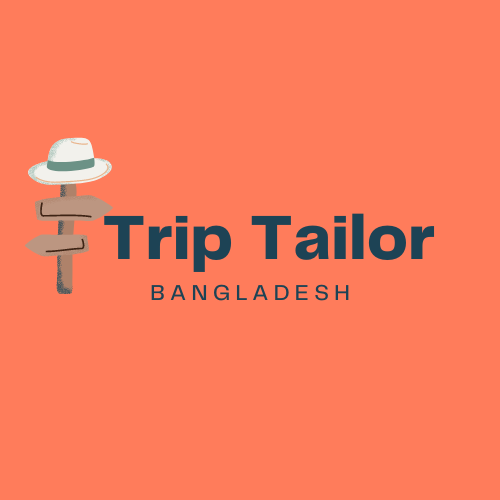
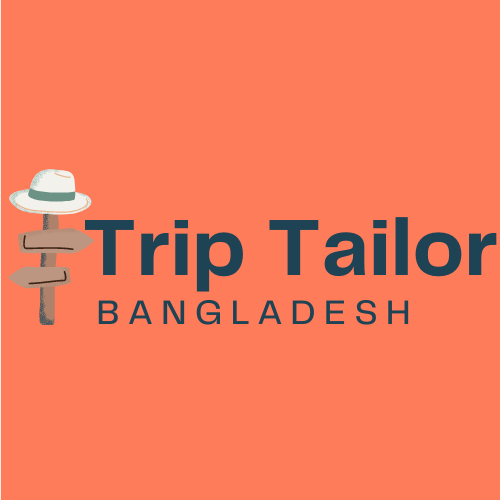
created navbar

Changed region(s): [[0.0, 0.27, 1.0, 0.66]]

diff --git a/src/components/Shared/Navabar/Navbar.jsx b/src/components/Shared/Navabar/Navbar.jsx
@@ -1,0 +1,82 @@
+import { Link, NavLink } from "react-router-dom";
+import logo from "../../../assets/images/Trip Tailor.png";
+
+const Navbar = () => {
+
+    const user = ''
+
+    const navlinks = <>
+        <li><NavLink to='/'>Home</NavLink></li>
+        <li><NavLink to='/community'>Community</NavLink></li>
+        <li><NavLink to='/blogs'>Blogs</NavLink></li>
+        <li><NavLink to='/about'>About Us</NavLink></li>
+        <li><NavLink to='/contact'>Contact Us</NavLink></li>
+    </>
+
+    return (
+        <div>
+            <div id="navbar" className="navbar bg-ttPrimary text-white">
+                {/* navbar start */}
+                <div className="navbar-start">
+                    {/* menu icon for small screen */}
+                    <div className="dropdown">
+                        <div tabIndex={0} role="button" className="btn btn-ghost lg:hidden">
+                            <svg xmlns="http://www.w3.org/2000/svg" className="h-5 w-5" fill="none" viewBox="0 0 24 24" stroke="currentColor"><path strokeLinecap="round" strokeLinejoin="round" strokeWidth="2" d="M4 6h16M4 12h8m-8 6h16" /></svg>
+                        </div>
+                        <ul tabIndex={0} className="menu menu-sm dropdown-content mt-3 z-[1] p-2 shadow bg-ttPrimary rounded-box w-52">
+                            {navlinks}
+                        </ul>
+                    </div>
+
+
+                    {/* profile and login/register button */}
+                    {
+                        user ? <div className="dropdown">
+                            <div tabIndex={0} role="button" className="btn btn-ghost btn-circle avatar">
+                                <div className="w-10 rounded-full">
+                                    <img alt="Tailwind CSS Navbar component" src="https://img.daisyui.com/images/stock/photo-1534528741775-53994a69daeb.jpg" />
+                                </div>
+                            </div>
+                            <ul tabIndex={0} className="mt-3 z-[1] p-2 shadow menu menu-sm dropdown-content bg-ttPrimary rounded-box w-52 text-center space-y-1">
+                                <li>Name</li>
+                                <li>Email</li>
+                                <li><NavLink to='/das'>Dashboard</NavLink></li>
+                                <li><NavLink>Offer</NavLink></li>
+                            </ul>
+                        </div>
+                            :
+                            <div className="flex gap-2">
+                                <Link to='/login'>
+                                    <button className="btn bg-ttSecondary text-white border-ttSecondary hover:bg-ttPrimary hover:border-ttSecondary">Login</button>
+                                </Link>
+                                <Link to='/signup'>
+                                    <button className="btn bg-ttSecondary text-white border-ttSecondary hover:bg-ttPrimary hover:border-ttSecondary">Sign Up</button>
+                                </Link>
+                            </div>
+                    }
+                </div>
+
+                {/* navbar center */}
+                <div className="navbar-center hidden lg:flex">
+                    <ul id="navUl" className="flex justify-between gap-5 px-1 ">
+                        {navlinks}
+                    </ul>
+                </div>
+
+                {/* navbar end */}
+
+                <div className="navbar-end flex-row-reverse justify-start gap-1">
+                    <div className="w-12 h-12 rounded-full">
+                        <img className="rounded-full" src={logo} alt="" />
+                    </div>
+                    <div className="flex flex-col text-center">
+                        <a className="text-2xl font-semibold"><span className="text-ttSecondary">T</span>rip <span className="text-ttSecondary">T</span>ailor</a>
+                        <a className="text-xs  text-ttSecondary">BANGLADESH</a>
+                    </div>
+                </div>
+            </div>
+        </div>
+    );
+};
+
+export default Navbar;

diff --git a/src/components/Routes/Routes.jsx b/src/components/Routes/Routes.jsx
@@ -1,13 +1,29 @@
 import { createBrowserRouter } from "react-router-dom";
 import Main from "../Layout/Main";
 import ErrorPage from "../Layout/ErrorPage";
+import Home from "../Pages/Home/Home/Home";
+import Community from "../Pages/Community/Community";
+import Login from "../Pages/Authentication/Login/Login";
+import Signup from "../Pages/Authentication/Signup/Signup";
 
 const router = createBrowserRouter([
     {
       path: "/",
       element: <Main></Main>,
-      errorElement: <ErrorPage></ErrorPage>
+      errorElement: <ErrorPage></ErrorPage>,
+      children: [
+        {
+          path: '/',
+          element: <Home></Home>,
+        },
+        {
+          path: '/community',
+          element: <Community></Community>
+        }
+      ]
     },
+    {path: '/login', element: <Login></Login>},
+    {path: '/signup', element: <Signup></Signup>}
   ]);
 
   export default router

diff --git a/src/components/Layout/Main.jsx b/src/components/Layout/Main.jsx
@@ -1,11 +1,11 @@
 import { Outlet } from "react-router-dom";
+import Navbar from "../Shared/Navabar/Navbar";
 
 
 const Main = () => {
     return (
-        <div className="bg-ttPrimaryBg py-20">
-            <h2 className="font-montserrat text-lg bg-ttSecondary">This is main root</h2>
-            <h2 className="font-anton text-2xl text-ttTerTiary bg-ttPrimary">This is main root</h2>
+        <div className="max-w-7xl mx-auto">
+            <Navbar></Navbar>
             <Outlet></Outlet>
         </div>
     );

diff --git a/src/index.css b/src/index.css
@@ -6,3 +6,25 @@
 @tailwind base;
 @tailwind components;
 @tailwind utilities;
+
+/* custom css */
+
+#navbar a.active{
+color: #ff7c5b;
+background-color: transparent;
+position: relative;
+}
+
+#navbar .navbar-center a.active::before {
+position: absolute;
+content: '';
+width: 100%;
+border-bottom: 8px solid #ff7c5b;
+bottom: -23px;
+clip-path: polygon(50% 0%, 60% 60%, 90% 60%, 100% 100%, 0 100%, 10% 60%, 40% 60%);
+}
+
+#navbar a:hover{
+    color: #ff7c5b;
+    transition: linear 0.2s;
+}

diff --git a/src/components/Pages/Community/Community.jsx b/src/components/Pages/Community/Community.jsx
@@ -1,0 +1,11 @@
+
+
+const Community = () => {
+    return (
+        <div>
+            <h2>Community</h2>
+        </div>
+    );
+};
+
+export default Community;

diff --git a/src/components/Pages/Authentication/Signup/Signup.jsx b/src/components/Pages/Authentication/Signup/Signup.jsx
@@ -1,0 +1,10 @@
+
+const Signup = () => {
+    return (
+        <div>
+            <h2>Signup</h2>
+        </div>
+    );
+};
+
+export default Signup;

diff --git a/src/components/Pages/Home/Home/Home.jsx b/src/components/Pages/Home/Home/Home.jsx
@@ -1,0 +1,11 @@
+
+
+const Home = () => {
+    return (
+        <div>
+            this is home page
+        </div>
+    );
+};
+
+export default Home;

diff --git a/src/components/Pages/Authentication/Login/Login.jsx b/src/components/Pages/Authentication/Login/Login.jsx
@@ -1,0 +1,11 @@
+
+
+const Login = () => {
+    return (
+        <div>
+            <h2>login</h2>
+        </div>
+    );
+};
+
+export default Login;
